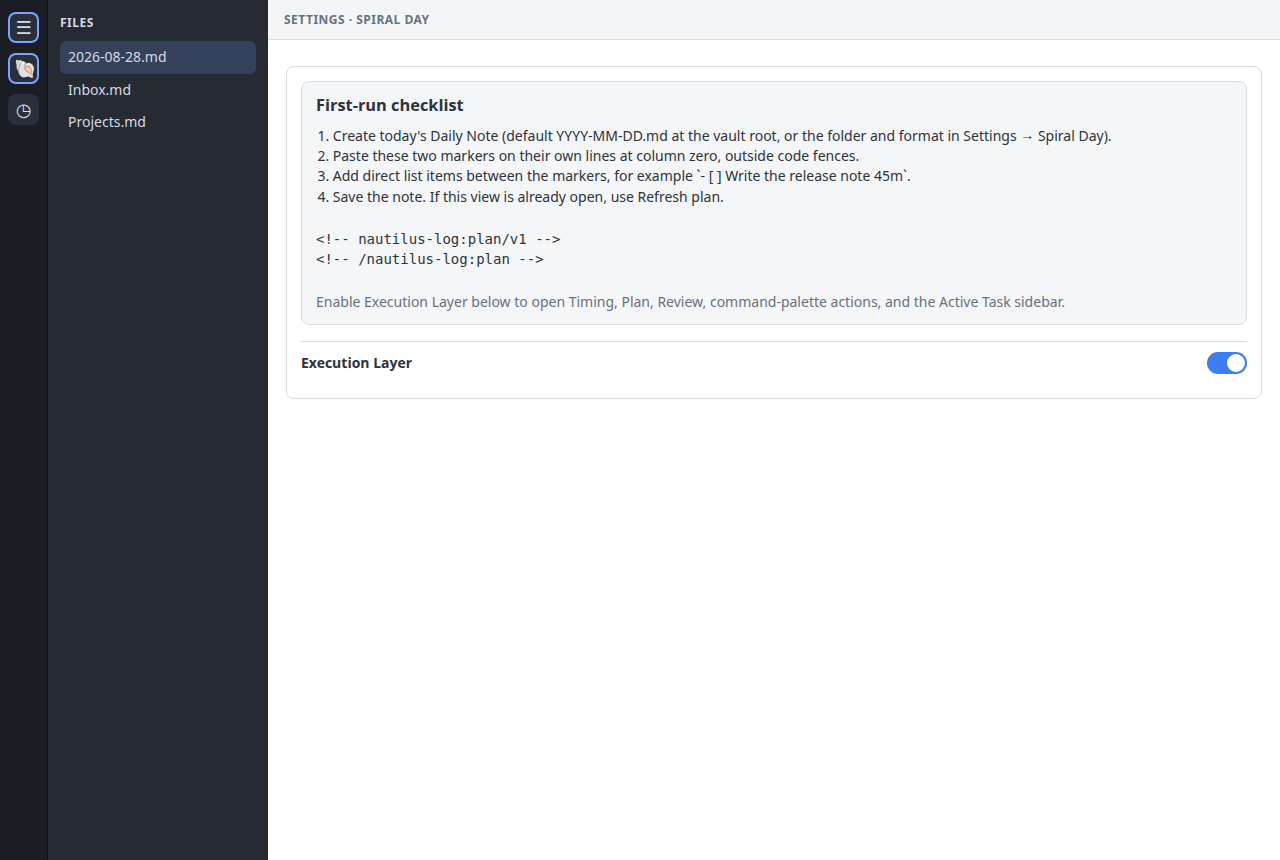
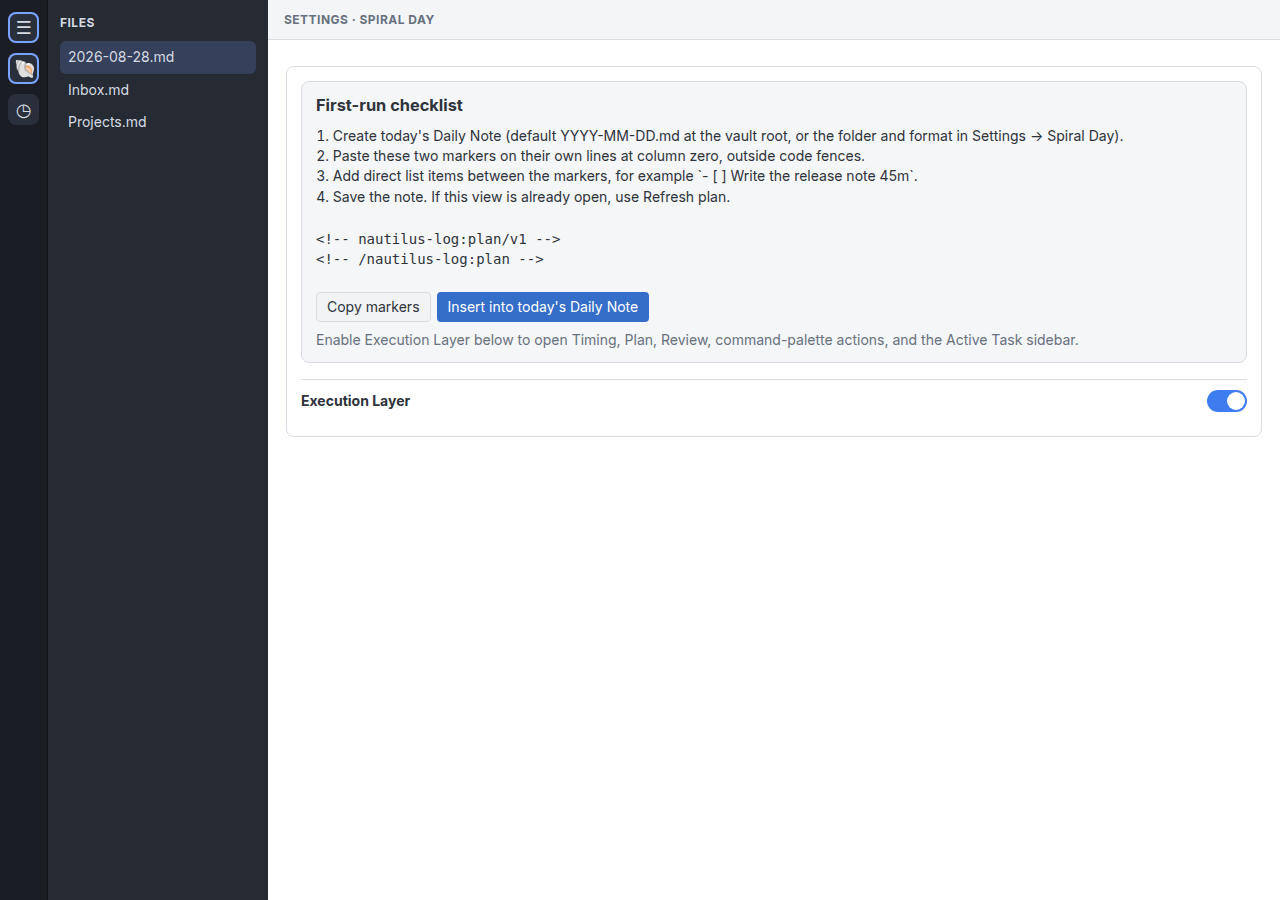
docs: recapture user-guide screenshots after plan insert
Serve preview fonts, wait for document.fonts.ready over CDP, and show
the Insert control plus a distinct ribbon scene in the handbook frames.

Changed region(s): [[0.2188, 0.0907, 0.9688, 0.4837], [0.0, 0.0, 0.1875, 0.1512], [0.2188, 0.0, 0.3438, 0.0302]]

diff --git a/scripts/user-guide-preview/index.html b/scripts/user-guide-preview/index.html
@@ -8,6 +8,41 @@
   <style>
     :root { color-scheme: light; }
     * { box-sizing: border-box; }
+    @font-face {
+      font-family: "Guide Inter";
+      src: url("/fonts/Inter-Regular.ttf") format("truetype");
+      font-weight: 400;
+      font-style: normal;
+      font-display: block;
+    }
+    @font-face {
+      font-family: "Guide Inter";
+      src: url("/fonts/Inter-Medium.ttf") format("truetype");
+      font-weight: 500;
+      font-style: normal;
+      font-display: block;
+    }
+    @font-face {
+      font-family: "Guide Inter";
+      src: url("/fonts/Inter-SemiBold.ttf") format("truetype");
+      font-weight: 600;
+      font-style: normal;
+      font-display: block;
+    }
+    @font-face {
+      font-family: "Guide Inter";
+      src: url("/fonts/Inter-Bold.ttf") format("truetype");
+      font-weight: 700;
+      font-style: normal;
+      font-display: block;
+    }
+    @font-face {
+      font-family: "Guide Mono";
+      src: url("/fonts/JetBrainsMono-Regular.ttf") format("truetype");
+      font-weight: 400;
+      font-style: normal;
+      font-display: block;
+    }
     body {
       --background-primary: #ffffff;
       --background-secondary: #f4f5f7;
@@ -18,11 +53,14 @@
       --text-faint: #959da8;
       --interactive-accent: #356ec9;
       --interactive-normal: #f2f3f5;
+      --font-interface: "Guide Inter", "Noto Sans", sans-serif;
+      --font-monospace: "Guide Mono", "Noto Sans Mono", ui-monospace, monospace;
       background: #1f2430;
       color: var(--text-normal);
-      font: 14px/1.45 system-ui, "Segoe UI", sans-serif;
+      font: 14px/1.45 var(--font-interface);
       margin: 0;
       min-height: 100vh;
+      -webkit-font-smoothing: antialiased;
     }
     .obsidian {
       background: #20242c;
@@ -83,7 +121,7 @@
     }
     .workspace-body { min-height: 0; padding: 16px 18px 24px; }
     .note {
-      font-family: ui-monospace, SFMono-Regular, Menlo, monospace;
+      font-family: var(--font-monospace);
       font-size: 13px;
       white-space: pre-wrap;
     }

diff --git a/scripts/user-guide-preview/main.ts b/scripts/user-guide-preview/main.ts
@@ -130,6 +130,7 @@ function mountPlanner(target: HTMLElement, snapshot: RuntimeSnapshot<RuntimePlan
   };
   mountPlannerSurface(target, runtime, plannerContext(), {
     locale: "en",
+    onInsertPrimaryPlan: () => undefined,
     renderIcon(button, icon) {
       button.textContent = ({
         collapse: "⌃",
@@ -232,10 +233,12 @@ switch (scene) {
       ribbon: "planner",
       caption: "Ribbon shell icon Open Spiral Day opens today's Planner.",
     });
-    const surface = el("div", "surface-card");
-    surface.id = "planner-root";
-    body.append(surface);
-    mountPlanner(surface, missingPlanSnapshot());
+    const hint = el("div", "settings-card");
+    hint.append(
+      el("h3", undefined, "Open Spiral Day"),
+      el("p", undefined, "The highlighted shell-ribbon icon opens today's Planner. Execution Layer stays off until you enable it in Settings."),
+    );
+    body.append(hint);
     break;
   }
   case "daily-note-markers": {
